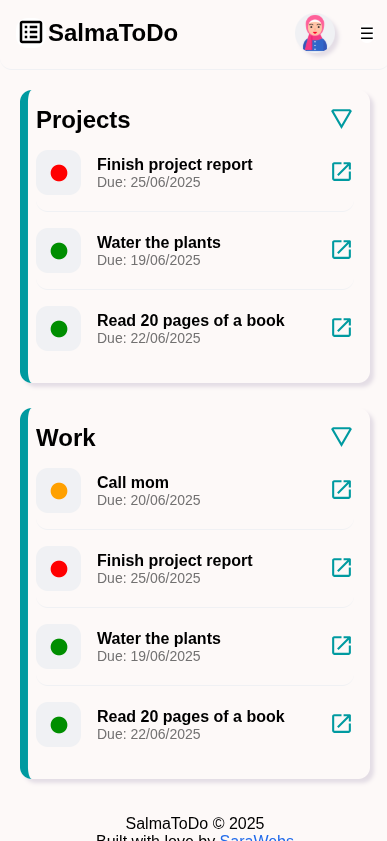
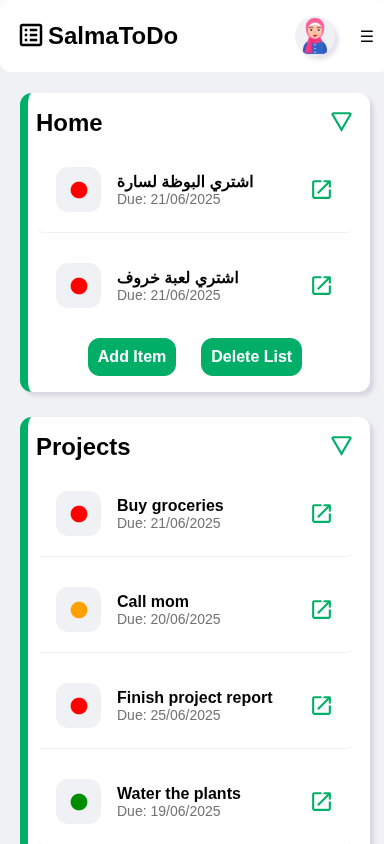
Updates README and data

diff --git a/src/sample.js b/src/sample.js
@@ -1,4 +1,26 @@
 export let tododata = [
+    {
+            title: 'Home',
+            desc: 'a description',
+            data: [
+                {
+                    title: "اشتري البوظة لسارة",
+                    desc: "اشتري بوظة لذيذة لسارة",
+                    due: new Date("2025-06-21"),
+                    done: false,
+                    priority: "high",
+                    icon: "🛒"
+                },
+                 {
+                    title: "اشتري لعبة خروف",
+                    desc: "اشتري لعبة خروف لسلمى",
+                    due: new Date("2025-06-21"),
+                    done: false,
+                    priority: "high",
+                    icon: "🛒"
+                }
+            ]
+        },
         {
             title: 'Projects',
             desc: 'a description',
